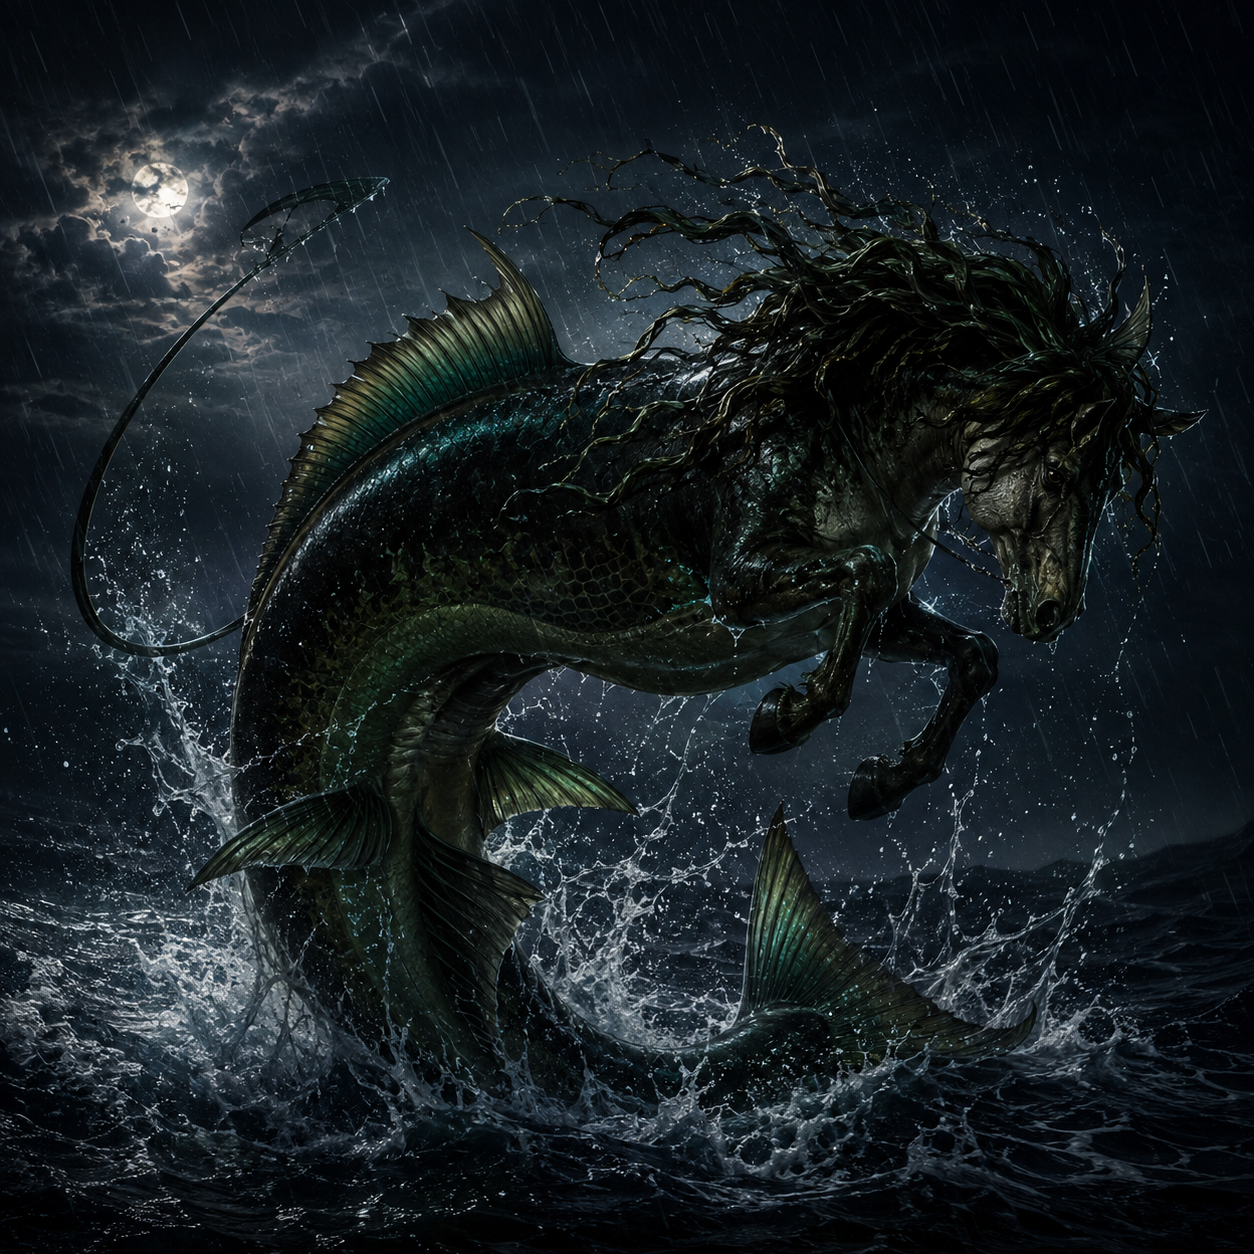
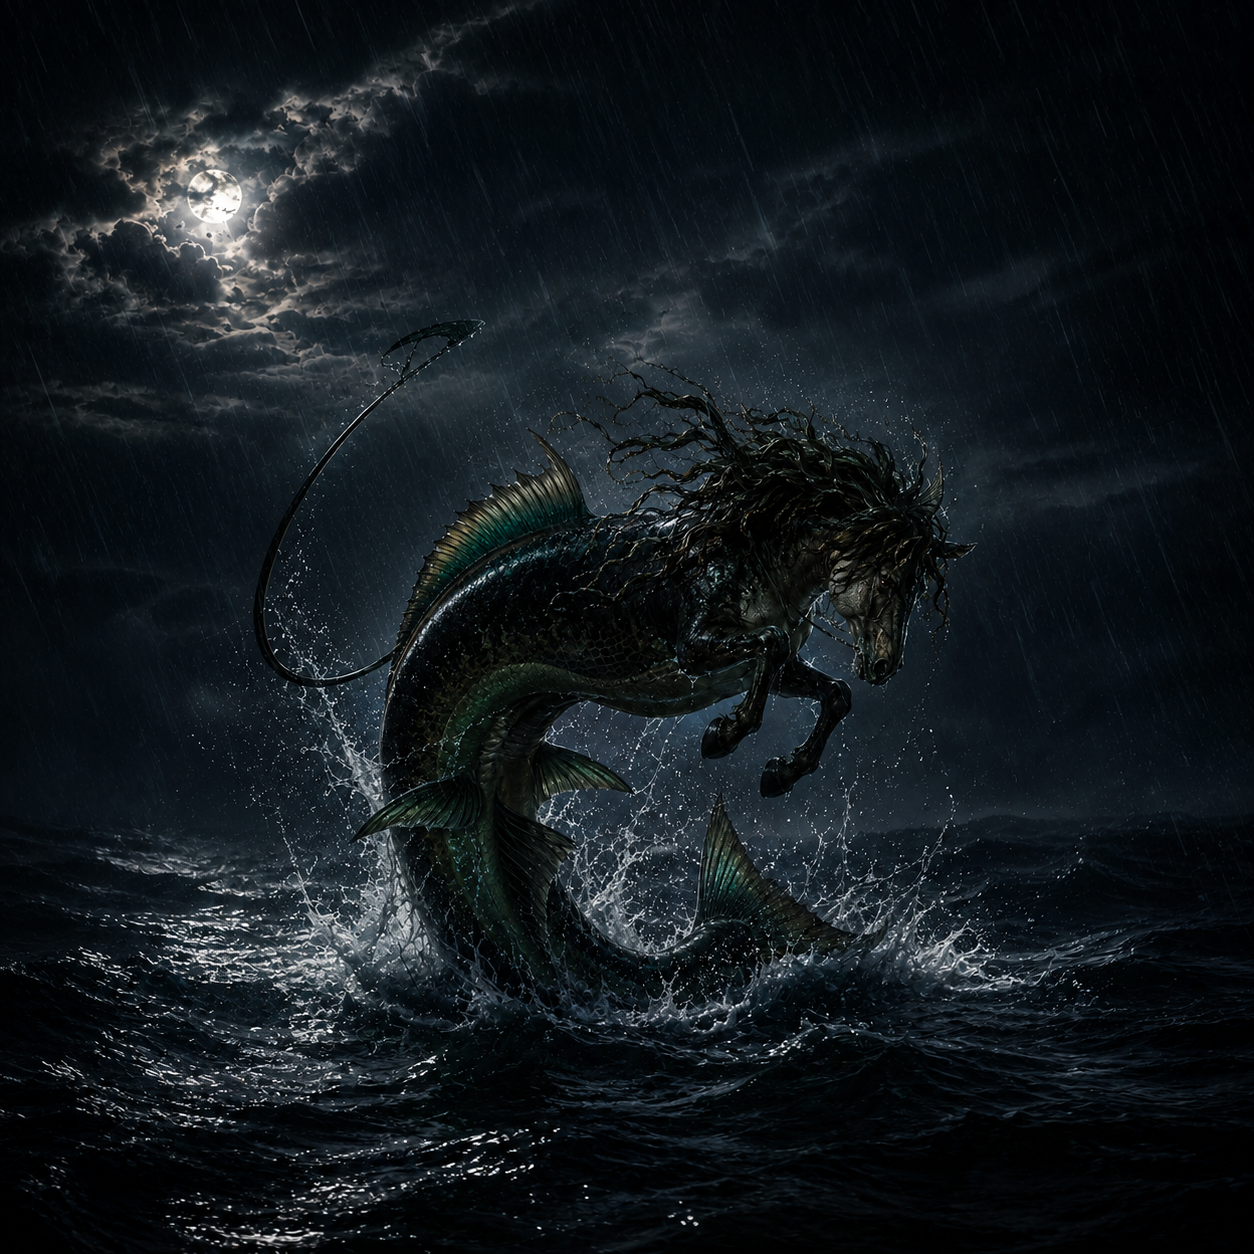
Website Update

diff --git a/data.js b/data.js
@@ -1360,7 +1360,7 @@ weaknesses:["Can be lured onto land"]
 
 {
 id:"gwrgi-garwl",
-name:"Gwrgi Garwl",
+name:"Gwrgi Garwlwyd",
 category:"Folklore",
 universe:"Welsh Folklore",
 creator:"Welsh Legend",
